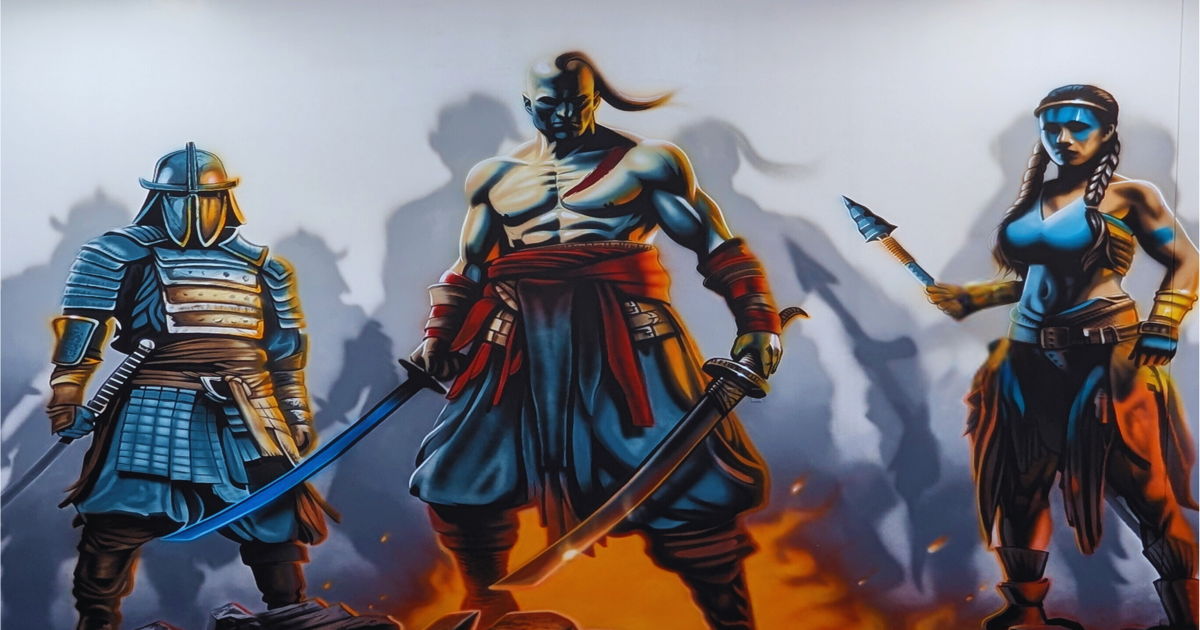
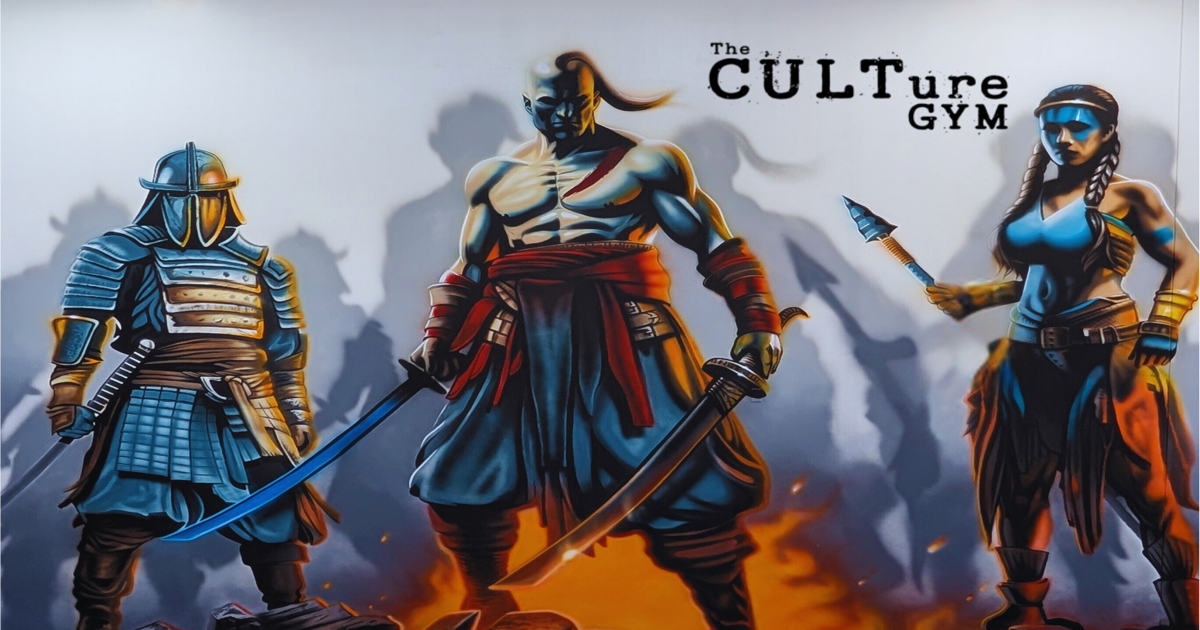
🎨 Use branded mobiletexthero.png for social sharing
- Replace OG image with mobiletexthero.png for better branding
- Keep culturegymhero.png as the main website hero image
- Resize to proper 1200x630 OG dimensions
- Update cache version to v3 to force refresh
- Separates website hero from social sharing image for optimal presentation

Changed region(s): [[0.5858, 0.0603, 0.8633, 0.2111]]

diff --git a/app/layout.tsx b/app/layout.tsx
@@ -15,7 +15,7 @@ export const metadata: Metadata = {
     type: "website",
     images: [
       {
-        url: "https://theculturegym.com/og-image.png?v=2",
+        url: "https://theculturegym.com/og-image.png?v=3",
         width: 1200,
         height: 630,
         alt: "The Culture Gym Fort Wayne",
@@ -38,7 +38,7 @@ export const metadata: Metadata = {
     card: "summary_large_image",
     title: "The Culture Gym Fort Wayne",
     description: "Fort Wayne's premier old school gym with 30+ group classes. Located at historic Spiece Fieldhouse.",
-    images: ["https://theculturegym.com/og-image.png?v=2"],
+    images: ["https://theculturegym.com/og-image.png?v=3"],
   },
   verification: {
     google: "google-site-verification-code",
